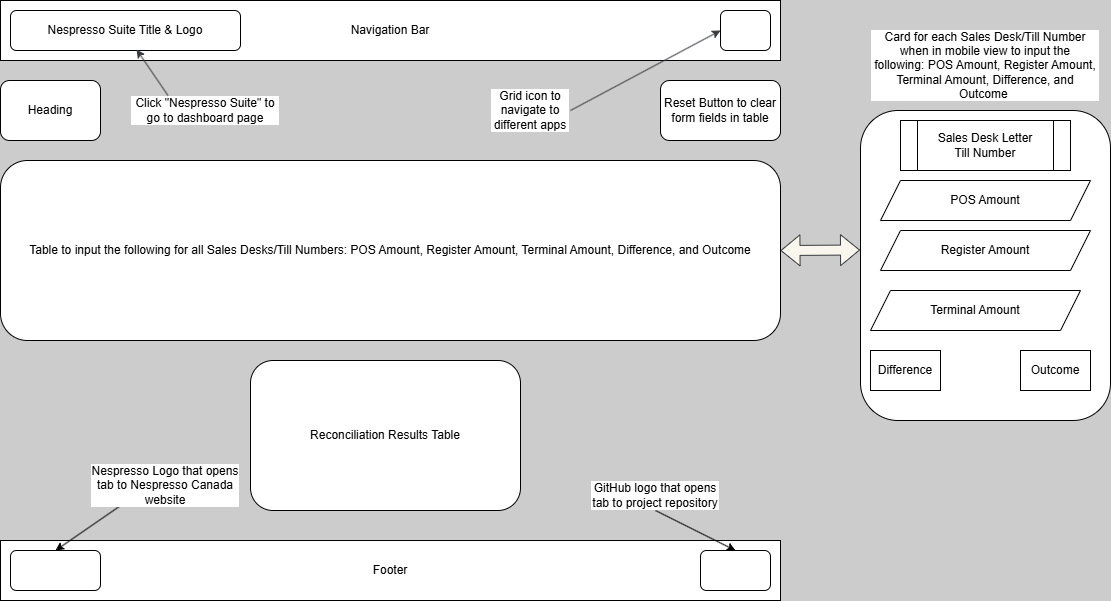
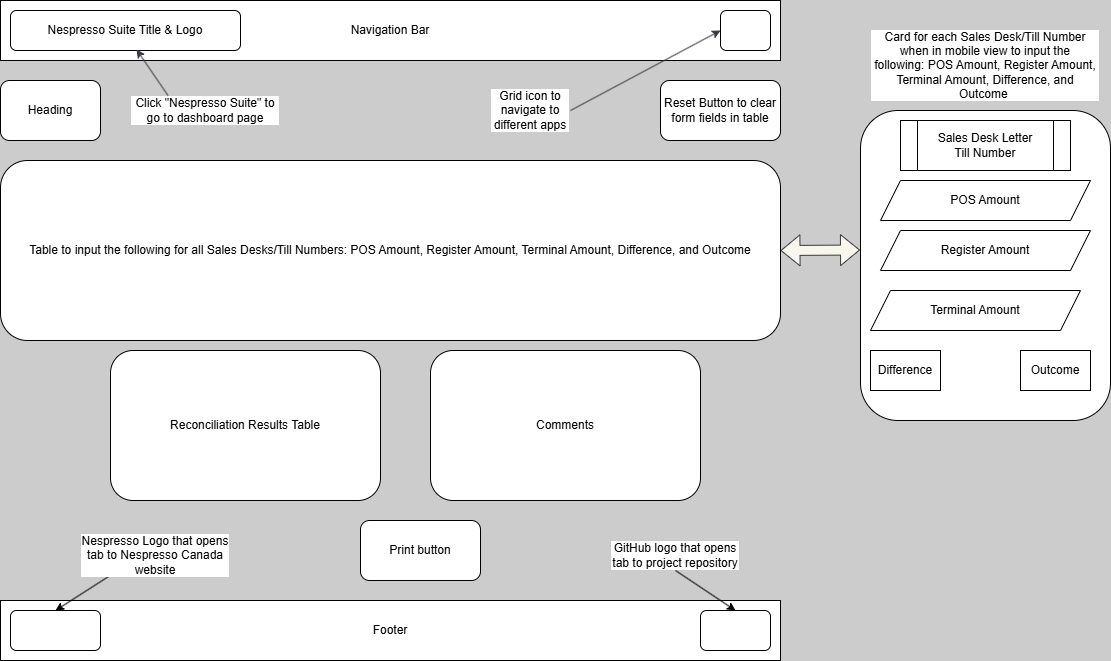
Created wireframe for cash reconciliation.

diff --git a/README.md b/README.md
@@ -18,7 +18,7 @@ Below are a list of software packages that helped to create this project.
 ### Dashboard
 The purpose of the dashboard is to serve as landing page to navigate to different apps in the software suite.
 
-![Dashboard](https://raw.githubusercontent.com/kjeshang/nespresso-suite/refs/heads/main/README_Images/Dashboard.png)
+![Dashboard Wireframe](https://raw.githubusercontent.com/kjeshang/nespresso-suite/refs/heads/main/README_Images/Dashboard.png)
 
 ### Apps in Software Suite
 
@@ -45,6 +45,11 @@ The purpose of the dashboard is to serve as landing page to navigate to differen
 The purpose of this application is to perform Credit Card & Debit Card Cash Journal Reconciliation.
 
 ![Card Reconciliation App WireFrame](https://raw.githubusercontent.com/kjeshang/nespresso-suite/refs/heads/main/README_Images/CardReconciliation.png)
+
+## Cash Reconciliation App
+The purpose of this application is to perform Cash Journal Reconciliation for Physical Cash Transactions.
+
+![Cash Reconciliation App WireFrame](README_Images\CashReconciliation.png)
 
 ## Development server
 
